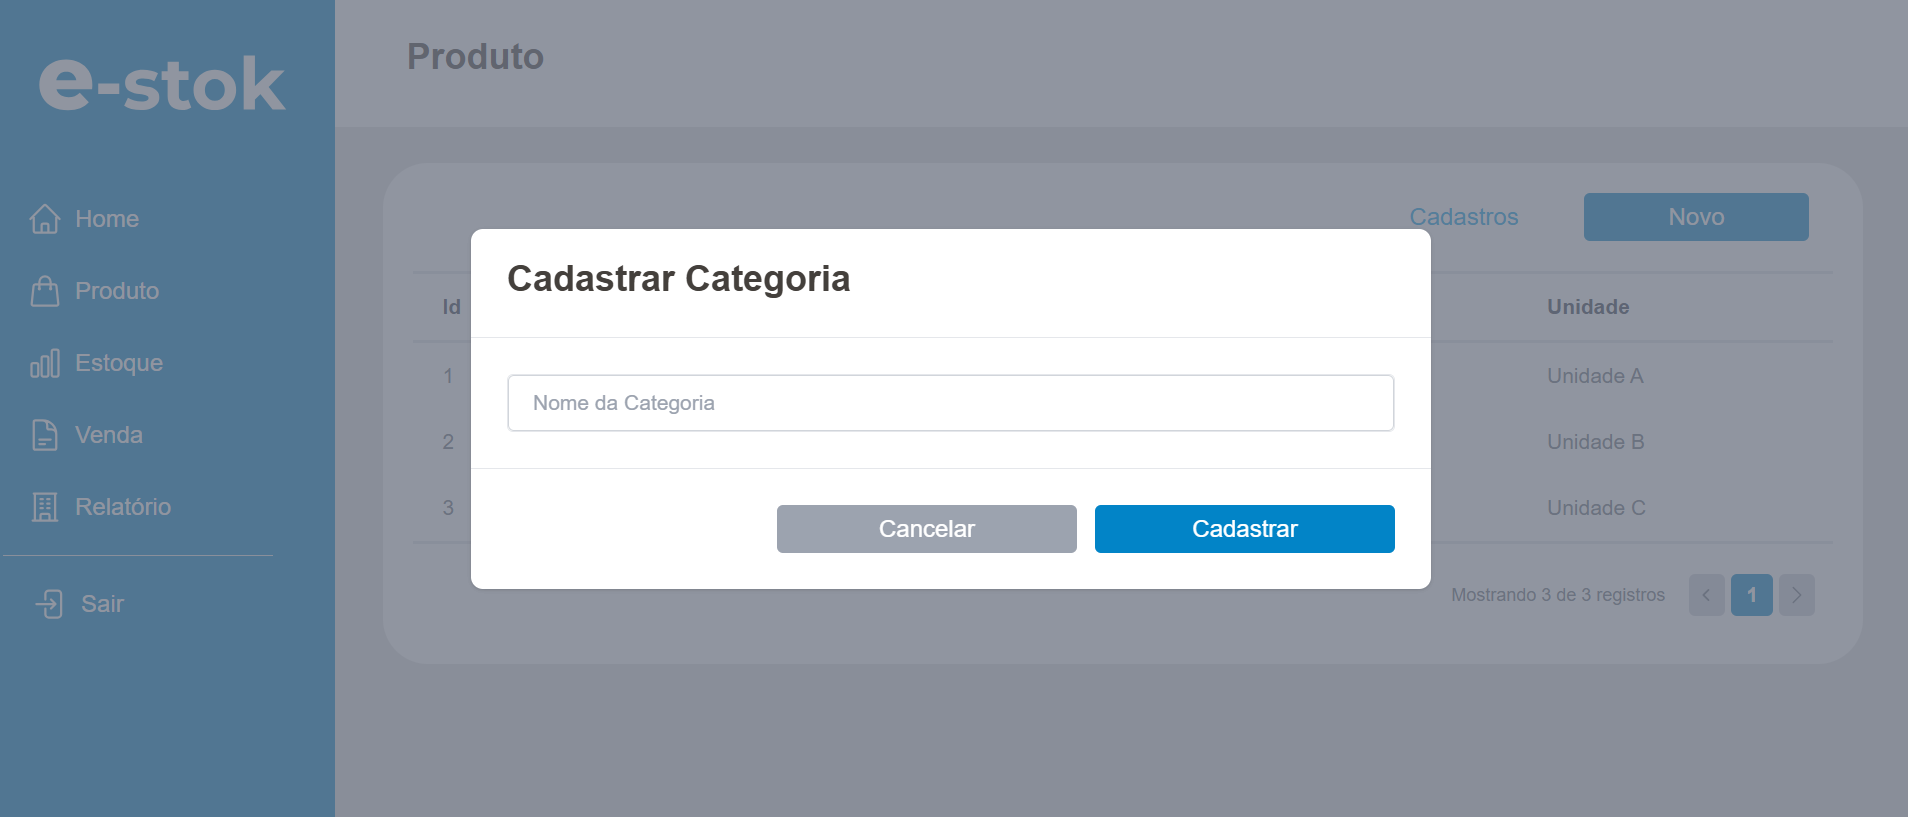
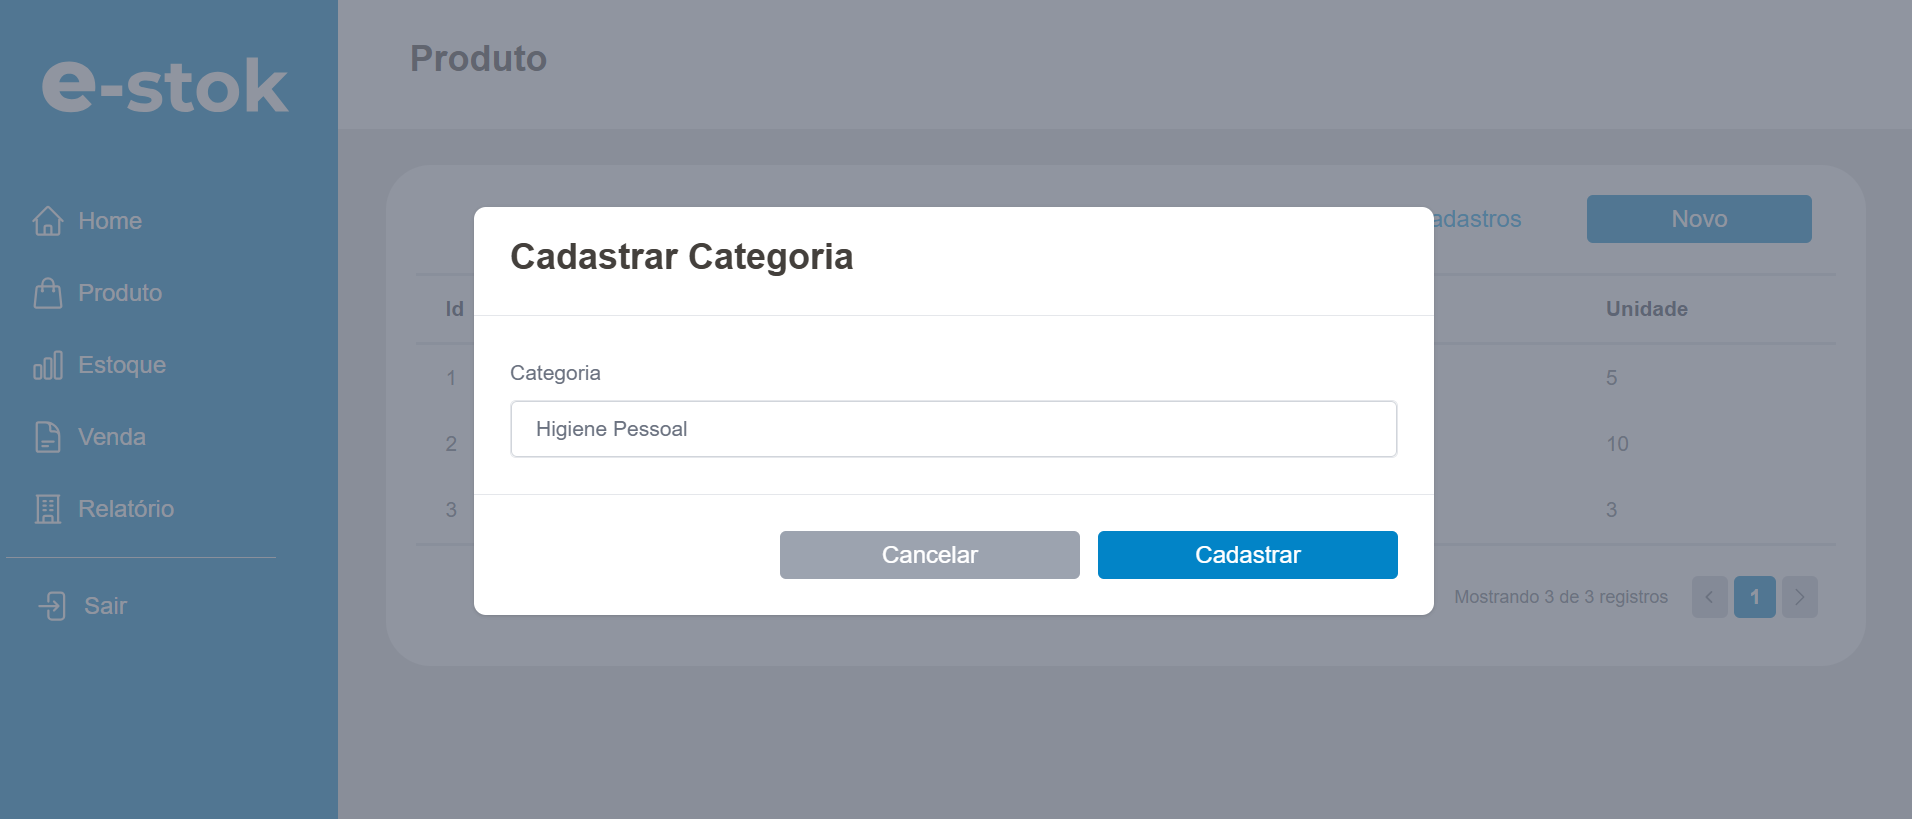
fix: Atualizado imagens do preview e dados reais dos dados chumbados

diff --git a/FRONT-DEV/admin-web/src/helper/mockListProducts.ts b/FRONT-DEV/admin-web/src/helper/mockListProducts.ts
@@ -7,7 +7,7 @@ export const mockListProducts: Paginate<Product> = {
       id: '1',
       produto: 'Água Mineral',
       categoria: 'Bebidas',
-      unidade: 'Litro (L)',
+      unidade: 5,
       tipo_do_produto: 'Produto Final',
       status: true
     },
@@ -15,7 +15,7 @@ export const mockListProducts: Paginate<Product> = {
       id: '2',
       produto: 'Arroz Branco Tipo 1',
       categoria: 'Alimentos',
-      unidade: 'Quilo (Kg)',
+      unidade: 10,
       tipo_do_produto: 'Produto Final',
       status: true
     },
@@ -23,23 +23,31 @@ export const mockListProducts: Paginate<Product> = {
       id: '3',
       produto: 'Sabão em Pó',
       categoria: 'Limpeza',
-      unidade: 'Quilo (Kg)',
+      unidade: 3,
+      tipo_do_produto: 'Produto Final',
+      status: false
+    },
+    {
+      id: '4',
+      produto: 'Sabonete Líquido Corporal',
+      categoria: 'Higiene Pessoal',
+      unidade: 1,
       tipo_do_produto: 'Produto Final',
       status: false
     }
   ],
-  totalItems: 3,
+  totalItems: 4,
   currentPage: 1,
   totalPages: 1,
   limit: 10,
-  length: 3,
+  length: 4,
   map: (callback) =>
     [
       {
         id: '1',
         produto: 'Água Mineral',
         categoria: 'Bebidas',
-        unidade: 'Litro (L)',
+        unidade: 5,
         tipo_do_produto: 'Produto Final',
         status: true
       },
@@ -47,7 +55,7 @@ export const mockListProducts: Paginate<Product> = {
         id: '2',
         produto: 'Arroz Branco Tipo 1',
         categoria: 'Alimentos',
-        unidade: 'Quilo (Kg)',
+        unidade: 10,
         tipo_do_produto: 'Produto Final',
         status: true
       },
@@ -55,7 +63,15 @@ export const mockListProducts: Paginate<Product> = {
         id: '3',
         produto: 'Sabão em Pó',
         categoria: 'Limpeza',
-        unidade: 'Quilo (Kg)',
+        unidade: 3,
+        tipo_do_produto: 'Produto Final',
+        status: false
+      },
+      {
+        id: '4',
+        produto: 'Sabonete Líquido Corporal',
+        categoria: 'Higiene Pessoal',
+        unidade: 1,
         tipo_do_produto: 'Produto Final',
         status: false
       }

diff --git a/FRONT-DEV/admin-web/src/helper/mockSelectOptions.ts b/FRONT-DEV/admin-web/src/helper/mockSelectOptions.ts
@@ -3,13 +3,21 @@ import { OptionSelect } from '../components/FormComponents/SelectForm';
 export const mockCategoryOptions: OptionSelect[] = [
   { value: '1', label: 'Bebidas', status: true },
   { value: '2', label: 'Alimentos', status: true },
-  { value: '3', label: 'Limpeza', status: true }
+  { value: '3', label: 'Limpeza', status: true },
+  { value: '4', label: 'Higiene Pessoal', status: true }
 ];
 
 export const mockUnitMeasureOptions: OptionSelect[] = [
-  { value: '1', label: 'Litro (L)', status: true },
-  { value: '2', label: 'Quilo (Kg)', status: true },
-  { value: '3', label: 'Unidade (Un)', status: true }
+  { value: '1', label: '1', status: true },
+  { value: '2', label: '2', status: true },
+  { value: '3', label: '3', status: true },
+  { value: '4', label: '4', status: true },
+  { value: '5', label: '5', status: true },
+  { value: '6', label: '6', status: true },
+  { value: '7', label: '7', status: true },
+  { value: '8', label: '8', status: true },
+  { value: '9', label: '9', status: true },
+  { value: '10', label: '10', status: true }
 ];
 
 export const mockProductTypeOptions: OptionSelect[] = [

diff --git a/FRONT-DEV/admin-web/src/modules/product/pages/components/NewCategoryModal.tsx b/FRONT-DEV/admin-web/src/modules/product/pages/components/NewCategoryModal.tsx
@@ -68,10 +68,9 @@ const NewCategoryModal = ({ isOpen, onClose }: ConfigModalProps) => {
             <div className="p-6 space-y-3">
               <InputForm
                 name="categoria"
-                // {...register('descricao', { required: 'Descrição é obrigatória' })}
                 type="text"
-                placeholder="Nome da Categoria"
-                error={errors.descricao?.message}
+                label="Categoria"
+                placeholder="Digite a Categoria"
               />
             </div>
             <div className="flex items-center justify-end p-6 space-x-3 rounded-b border-t border-gray-200">

diff --git a/FRONT-DEV/admin-web/src/modules/product/models/Product.ts b/FRONT-DEV/admin-web/src/modules/product/models/Product.ts
@@ -3,7 +3,7 @@ interface Product {
   produto: string;
   categoria: string;
   tipo_do_produto: string;
-  unidade: string;
+  unidade: number;
   status: boolean;
 }
 

diff --git a/README.md b/README.md
@@ -1,12 +1,15 @@
 # **eSTOK:** _compra de um produto disponível no estoque do fornecedor_
 
-![preview](./.github/preview.png)
-![preview](./.github/preview2.png)
-![preview](./.github/preview3.png)
-![preview](./.github/preview4.png)
-![preview](./.github/preview5.png)
-![preview](./.github/preview6.png)
-![preview](./.github/preview7.png)
+![Login](./.github/preview1.png)
+![Bem-vindo](./.github/preview2.png)
+![Lista de Produto](./.github/preview3.png)
+![Cadastro Categoria](./.github/preview4.png)
+![Cadastro Produto](./.github/preview5.png)
+![Lista de Produto Atualizada](./.github/preview6.png)
+![Lista de Estoque](./.github/preview7.png)
+![Baixa de Estoque](./.github/preview8.png)
+![Relatório](./.github/preview9.png)
+![Relatório Preenchido](./.github/preview10.png)
 
 <!--
 [🔗 ACESSE O PROJETO ](/LINK-ACESSO-PROJETO/)
